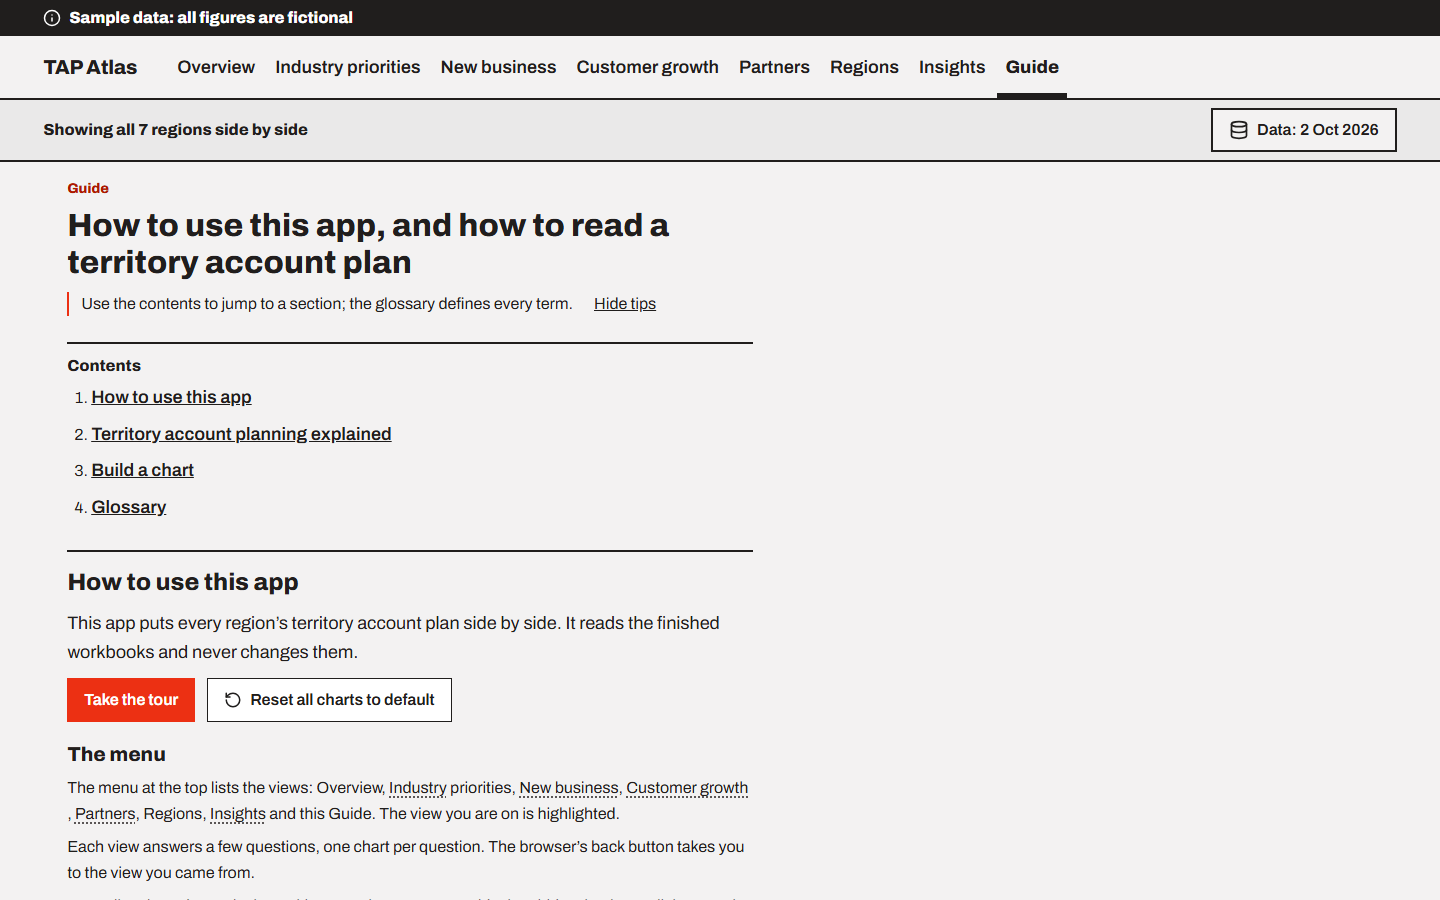
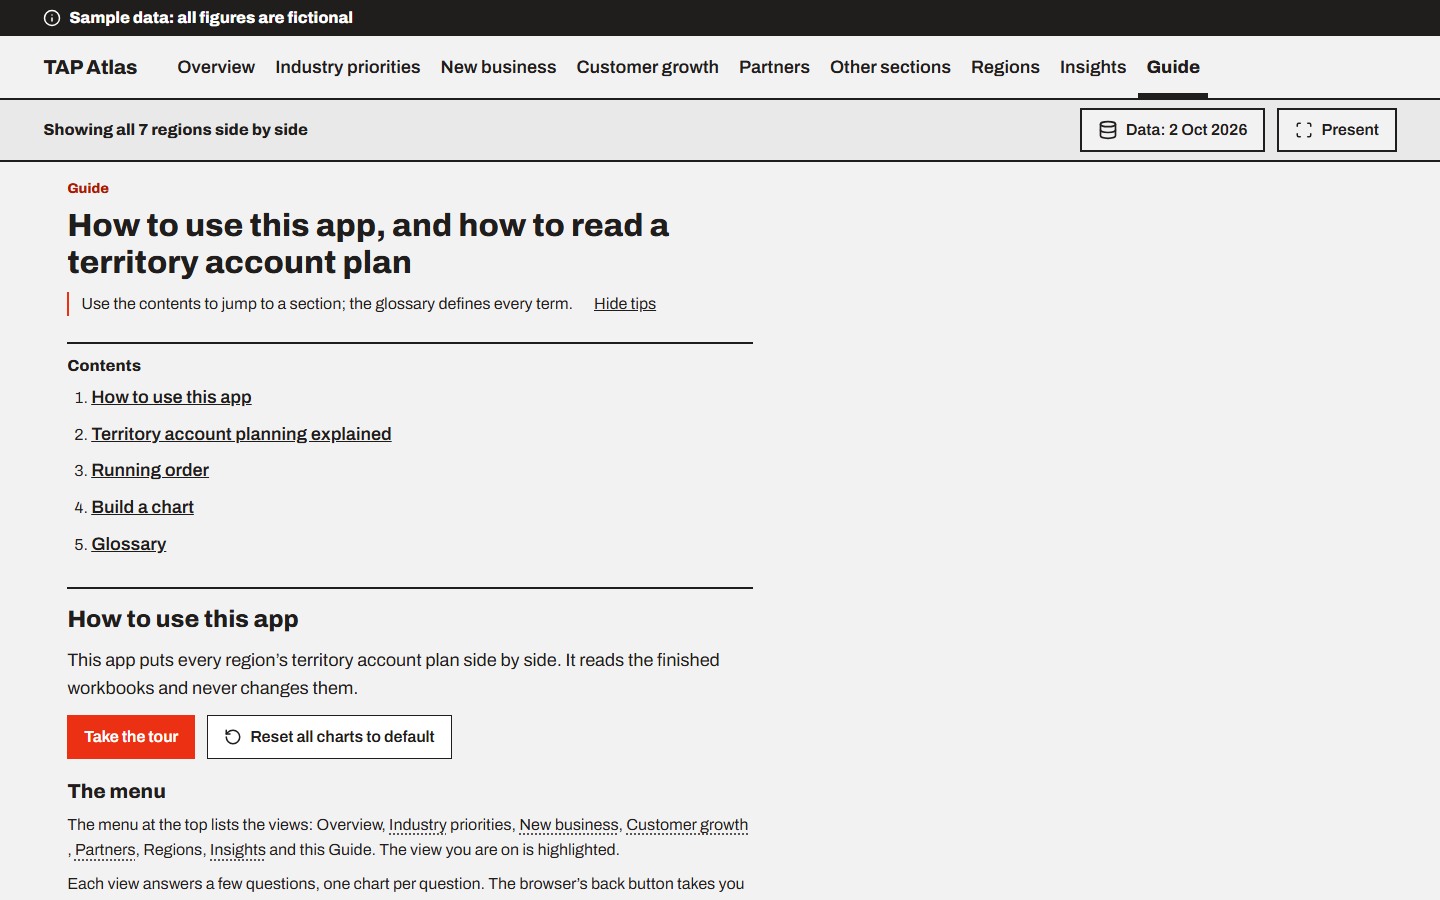
chore(release): version 0.3.0, fresh portfolio screenshots, case study figures
Sets the app version, retakes the nine portfolio screenshots on the
final build (adds Other sections) and puts the final check counts and
decision count in the case study.

Refs: #310

Changed region(s): [[0.0312, 0.56, 0.5312, 0.9956], [0.5625, 0.0622, 0.9688, 0.1556], [0.0625, 0.4978, 0.1562, 0.5289]]

diff --git a/docs/case-study.html b/docs/case-study.html
@@ -37,7 +37,7 @@
 <li><strong>A public repository.</strong> The code is public as a portfolio piece, so it holds only generic wording and generated sample data. Real data and organization wording live in gitignored files in an internal copy, and a scan blocks any organization term from being committed (D2, D33, D37).</li>
 </ul>
 <h2>Key decisions</h2>
-<p>72 decisions were logged, each with the date, the reasons and the alternatives. The ones that shaped the app most:</p>
+<p>74 decisions were logged, each with the date, the reasons and the alternatives. The ones that shaped the app most:</p>
 <table>
 <thead><tr><th scope="col">Decision</th><th scope="col">What was decided</th><th scope="col">Why</th></tr></thead>
 <tbody>
@@ -72,10 +72,10 @@
 <tbody>
 <tr><td>1, <code>v0.1.0</code></td><td>The app shell and the comparison bar, the report panel and engine, sample data with planted cases, the Overview and Industry priorities views, insights in six rule families, the Guide, glossary and tour, the contract check, and the handover documents for the import</td><td>58 (49 Must, 9 Should)</td><td>270</td><td>635 automated checks pass in Chrome and Edge; the QA smoke run of 281 steps with no exceptions</td></tr>
 <tr><td>2, <code>v0.2.0</code></td><td>The New business, Customer growth and Partners views, the region profile, list reports, drill-down, a dot plot and breakdowns, three more insight families, and reading tips</td><td>37 (22 Must, 13 Should, 2 Could)</td><td>245</td><td>969 automated checks pass in Chrome and Edge; the QA smoke run of 724 steps per browser with no exceptions</td></tr>
-<tr><td>3, <code>v0.3.0</code></td><td>Presentation mode with a running order, custom charts, extra template sections, the handover pack, and this portfolio edition</td><td>18 (10 Must, 7 Should, 1 Could)</td><td>118</td><td>1,004 automated checks passed in Chrome during the build; the final figure is set at the release gate</td></tr>
+<tr><td>3, <code>v0.3.0</code></td><td>Presentation mode with a running order, custom charts, extra template sections, the handover pack, and this portfolio edition</td><td>18 (10 Must, 7 Should, 1 Could)</td><td>118</td><td>1,079 automated checks pass in Chrome and Edge; QA scripts on every view: no console errors, nothing below 13 px, no web requests; smoke test with no failures</td></tr>
 </tbody>
 </table>
-<p>In total: 113 stories, 633 test cases and 72 decisions, built in four days. About 110 pull requests were merged in Phase 1 and about 60 in Phase 2.</p>
+<p>In total: 113 stories, 633 test cases and 74 decisions, built in four days. About 110 pull requests were merged in Phase 1, about 60 in Phase 2 and about 25 in Phase 3.</p>
 <figure><img src="screenshots/new-business.png" alt="New business on the sample data: the question the view answers, the observation worth discussing first, and the industry chart" width="1440" height="900"></figure>
 <h2>What worked, and what was learned</h2>
 <ul>

diff --git a/js/core/namespace.js b/js/core/namespace.js
@@ -9,7 +9,7 @@
   'use strict';
   var TAP = window.TAP = window.TAP || {};
 
-  TAP.version = '0.3.0-dev';
+  TAP.version = '0.3.0';
   // The Data Contract version this build reads. The data file's meta.schemaVersion must match.
   TAP.schemaVersion = '0.2';
 

diff --git a/docs/CASE-STUDY.md b/docs/CASE-STUDY.md
@@ -21,7 +21,7 @@ The job: one place that plays each region's plan back, compares regions on the s
 
 ## Key decisions
 
-72 decisions were logged, each with the date, the reasons and the alternatives. The ones that shaped the app most:
+74 decisions were logged, each with the date, the reasons and the alternatives. The ones that shaped the app most:
 
 | Decision | What was decided | Why |
 |---|---|---|
@@ -55,9 +55,9 @@ The job: one place that plays each region's plan back, compares regions on the s
 |---|---|---|---|---|
 | 1, `v0.1.0` | The app shell and the comparison bar, the report panel and engine, sample data with planted cases, the Overview and Industry priorities views, insights in six rule families, the Guide, glossary and tour, the contract check, and the handover documents for the import | 58 (49 Must, 9 Should) | 270 | 635 automated checks pass in Chrome and Edge; the QA smoke run of 281 steps with no exceptions |
 | 2, `v0.2.0` | The New business, Customer growth and Partners views, the region profile, list reports, drill-down, a dot plot and breakdowns, three more insight families, and reading tips | 37 (22 Must, 13 Should, 2 Could) | 245 | 969 automated checks pass in Chrome and Edge; the QA smoke run of 724 steps per browser with no exceptions |
-| 3, `v0.3.0` | Presentation mode with a running order, custom charts, extra template sections, the handover pack, and this portfolio edition | 18 (10 Must, 7 Should, 1 Could) | 118 | 1,004 automated checks passed in Chrome during the build; the final figure is set at the release gate |
+| 3, `v0.3.0` | Presentation mode with a running order, custom charts, extra template sections, the handover pack, and this portfolio edition | 18 (10 Must, 7 Should, 1 Could) | 118 | 1,079 automated checks pass in Chrome and Edge; QA scripts on every view: no console errors, nothing below 13 px, no web requests; smoke test with no failures |
 
-In total: 113 stories, 633 test cases and 72 decisions, built in four days. About 110 pull requests were merged in Phase 1 and about 60 in Phase 2.
+In total: 113 stories, 633 test cases and 74 decisions, built in four days. About 110 pull requests were merged in Phase 1, about 60 in Phase 2 and about 25 in Phase 3.
 
 ![New business on the sample data: the question the view answers, the observation worth discussing first, and the industry chart](screenshots/new-business.png)
 
